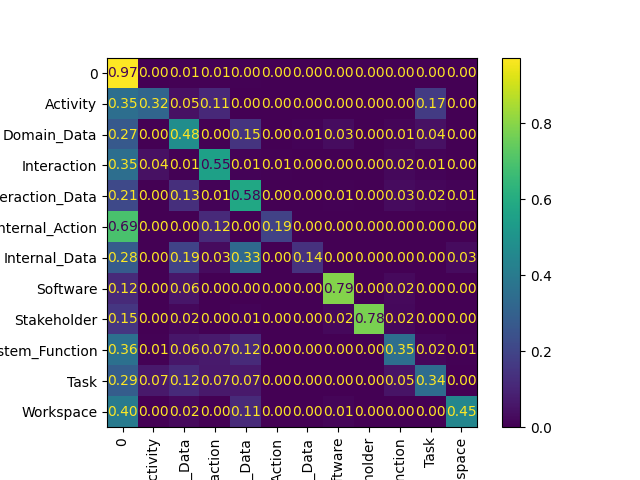
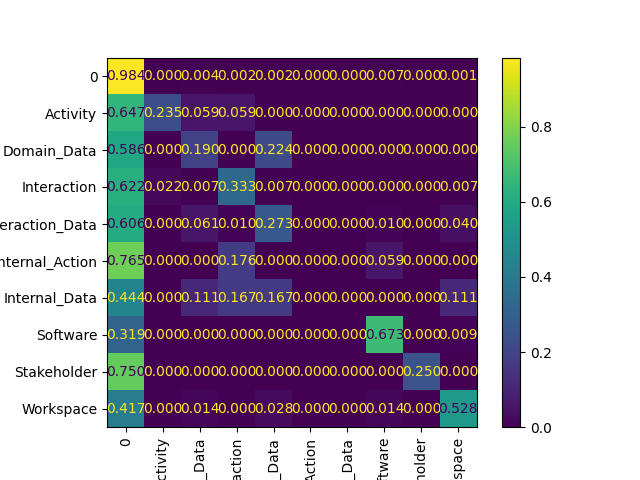
get everything working

diff --git a/src/cmd/evaluate_sner.py b/src/cmd/evaluate_sner.py
@@ -51,7 +51,7 @@ ConfusionMatrixDisplay.from_predictions(
     results["label"],
     xticks_rotation="vertical",
     normalize="true",
-    values_format=".2f",
+    values_format=".3f",
 )
 plt.savefig(CONF_MATRIX_PATH)
 
